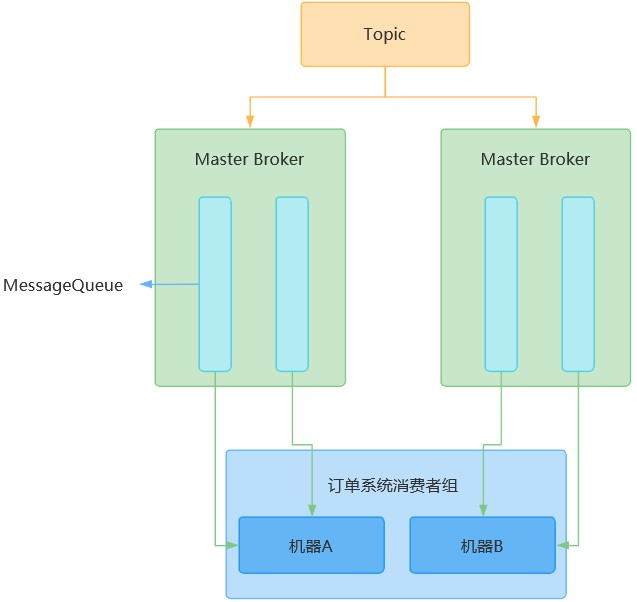
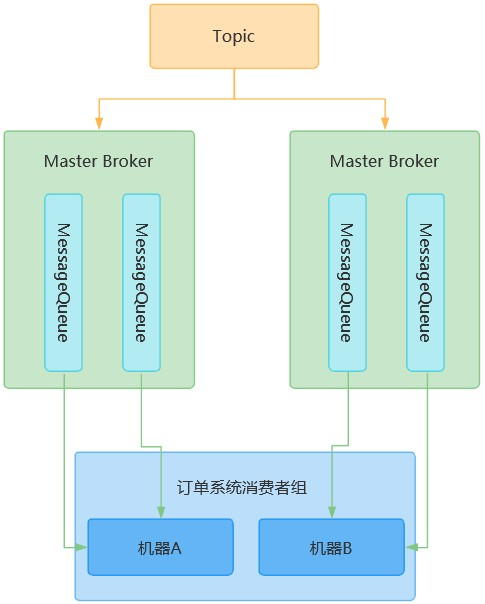
2021-08-13 RocketMQ持久化

diff --git a/Part1/6.队列/RocketMQ/7.消费原理.md b/Part1/6.队列/RocketMQ/7.消费原理.md
@@ -10,9 +10,7 @@
 
 
 
-## 消费者原理
-
-#### Topic和消费者组的关系
+## Topic和消费者组的关系
 
 每个Topic都是以消费者组为单位进行消费的，一个Topic可以被多个消费者组消费
 
@@ -24,7 +22,13 @@
 
 
 
-#### MessageQueue与消费者的关系
+
+
+
+
+
+
+## MessageQueue与消费者的关系
 
 每个Topic上的多个MessageQueue，会均匀地将MessageQueue分配给消费者组的多台机器消费
 
@@ -34,7 +38,13 @@
 
 
 
-#### 消费模式	
+
+
+
+
+
+
+## 消费模式	
 
 消费者组收到消息后，可以只给一个机器，也可以给所有机器
 
@@ -46,9 +56,16 @@
 
   可通过consumer.setMessageModel(MessageModel.BROADCASTING);来配置
 
-  
 
-#### Push模式 & Pull模式
+
+
+
+
+
+
+
+
+## Push模式 & Pull模式
 
 这两个模式的本质都是消费者机器发请求到Broker机器拉取消息
 
@@ -65,7 +82,13 @@ Push模式的实时性很好，Broker会尽可能实时地把新消息Push给消
 
 
 
-#### Broker如何读取消息给消费者
+
+
+
+
+
+
+## Broker如何读取消息给消费者
 
 消费者机器关联着某个MessageQueue，发送拉取请求
 
@@ -75,11 +98,19 @@ Push模式的实时性很好，Broker会尽可能实时地把新消息Push给消
 
 
 
-#### 消费者提交消费进度
+
+
+
+
+
+
+## 消费者提交消费进度
 
 消费者机器拉取到消息之后，会回调一个注册的函数
 
 处理完消息之后，就会提交消费进度到Broker上去
+
+`怎样才算处理完消息？没处理完就宕机咋办？处理完没提交offset就宕机咋办？`
 
 Broker会以记录一个ConsumeOffset的形式，来记录消费者机器消费者机器对该MessageQueue的消费进度
 

diff --git a/Part1/6.队列/RocketMQ/1.架构原理.md b/Part1/6.队列/RocketMQ/1.架构原理.md
@@ -70,3 +70,4 @@ NameServer对消息的生产和消费进行路由
 
 
 
+<img src=".\pic\架构原理.jpg" style="float: left; zoom: 80%;" />
